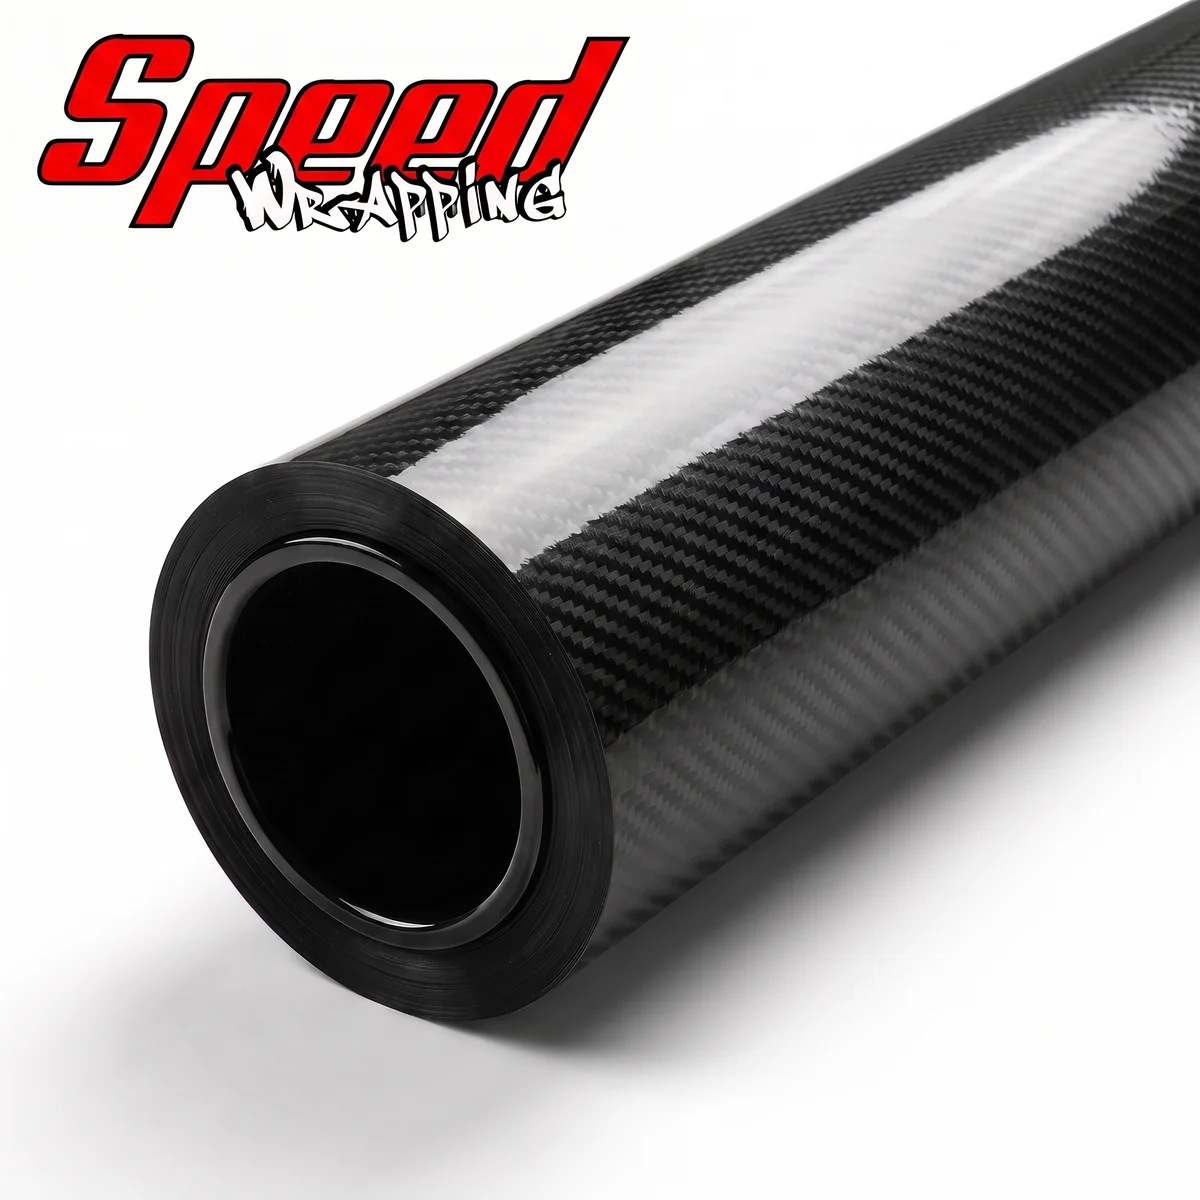
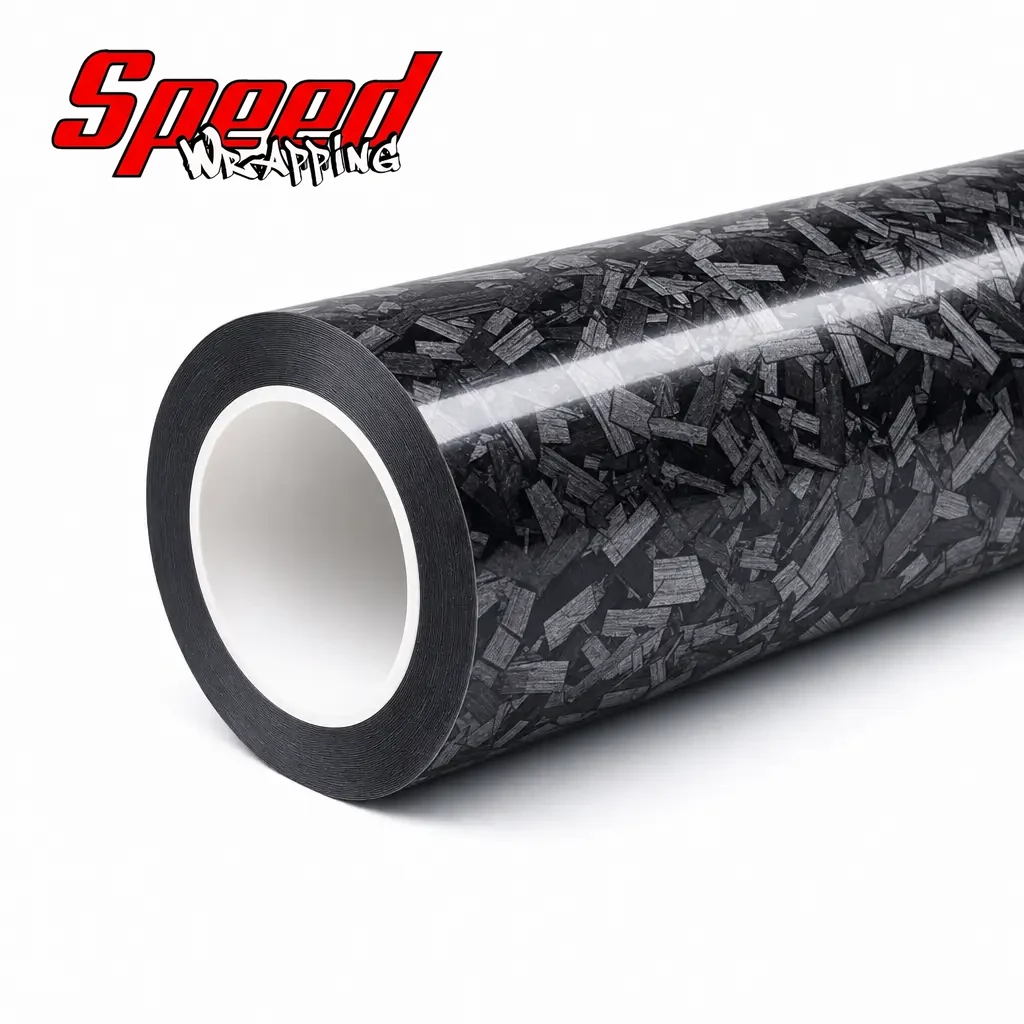
feat(egf-006): close de aplicacao parcial (capo, teto, retrovisor) + capa com padrao do cartao EGF 006 Gloss Forged Carbon Silver PET

diff --git a/docs/STATUS_CORES_SPEED.md b/docs/STATUS_CORES_SPEED.md
@@ -40,6 +40,10 @@ pasta · `✅ ` = fotos e capa 100% no site. Ex.: `✅ EDG-020 LIQUID METAL RUBY
 | EMG-022 | SATIN METALLIC GLOSSY PRUNUS SAKURA PINK PET | ✅ 30/09 | ✅ 01/10 — à mão: H 354–358, S 21–30, V 73–89 → swatch **`#EDB8BA`** (rosa-salmão pastel, H 357 · S 22 · V 93) | ✅ 01/10 — **B** aprovado (`63c3b945`) | ✅ 01/10 — aprovadas, sem correção (H 5–16 · S 20–25; capa H 357) | ✅ 01/10 — commit `e9ebbaf`, 5 mídias, conferido no ar; pasta ✅ |
 | EGF-010 | GLOSS FORGED CARBON GOLD PET | ✅ 30/09 | ✅ 01/10 — lascas âmbar-ouro H 30–36 (S 60–70) **`#B07A2A`**/`#8A5E1E` sobre base marrom-preta `#1A120A`; brilhante | ✅ 01/10 — **B** aprovado (`1e2d6395`) | ✅ 01/10 — aprovadas: closes (capô, retrovisor + teto, teto, macro) + capa com o padrão; sem correção | ✅ 01/10 — commit `56234fe`, 5 mídias, conferido no ar; pasta ✅ |
 | EGF-013 | MATTE FORGED CARBON PURPLE PET | ✅ 30/09 | ✅ 01/10 — lascas violeta H 266–284 (S ~48) **`#5A3A80`** sobre base `#161020`; **fosco** | ✅ 01/10 — **B** aprovado (`1084225e`) | ✅ 01/10 — aprovadas: closes foscos + capa fosca com o padrão; sem correção | ✅ 01/10 — commit `b006d98`, 5 mídias, conferido no ar; pasta ✅ |
+| EGF-006 | GLOSS FORGED CARBON SILVER PET | ✅ 30/09 | ✅ 01/10 — lascas prata-grafite sobre preto, brilhante; textura do cartão `f9657486` | ✅ 01/10 — **B** aprovado (`caa2f9ea`) | ⏳ 01/10 — prévia pronta: closes (capô, retrovisor + teto, teto, macro) + capa com o padrão; sem correção | — |
+| EGF-017 | SHADOW BLACK | ✅ 30/09 | ✅ 01/10 — camuflagem preta: manchas preto brilhante × cinza-chumbo acetinado; textura `d0cfb72b` | ✅ 01/10 — **B** aprovado (`5165d1d4`) | ⏳ 01/10 — prévia pronta: closes + macro brilho × acetinado + capa camuflada; sem correção | — |
+| EGF-018 | FORGED CARBON | ✅ 30/09 | ✅ 01/10 — estilhaços angulosos cinza/preto (não retangulares como os outros forjados), brilhante; textura `5980816d` | ✅ 01/10 — **B** aprovado (`3556e017`; eu tinha recomendado A) | ⏳ 01/10 — prévia pronta: closes + capa com os estilhaços; sem correção | — |
+| ESG-004 | SUPER GLOSS FERRARI RED PET | ✅ 01/10 | ✅ 01/10 — à mão: H 356–1 · S 84–97 · V ~88 → vermelho vivo levemente alaranjado **`#E31E14`** (cor no teto: sem correção) | ✅ 01/10 — **B** aprovado (`0e479703`) | ⏳ 01/10 — prévia pronta (H 359–5 · S 92–99; capa V 89); sem correção (cor no teto) | — |
 
 **Cadastradas no NZERP em 01/10** (eram as "fora do NZERP" com amostra no Drive): nome lido no rótulo do
 cartão; fiscal, custo, preço da Engenharia e medidas copiados do irmão de linha; criadas no Tiny pela
@@ -57,14 +61,16 @@ sync. Prontas para foto:
 | SPWEMG022 | EMG 022 SATIN METALLIC GLOSSY PRUNUS SAKURA PINK PET | SPWEMG017 | 437012495 |
 | SPWEMT024 | EMT 024 SATIN METALLIC MATT PEARL PINK | SPWEMT025 | 437012538 |
 
-**Nome divergente NZERP × Tiny (achado 01/10, não mexido):** SPWEGF006 é "GLOSS FORGED CARBON SILVER
-PET" no NZERP e "EGF 006 CARBON GLOSS 5D" no Tiny (a pasta do Drive segue o Tiny); SPWEGF007 é "MATTE
-FORGED CARBON SILVER PET" no NZERP e "EGF 007 FROSTED BLACK PET" no Tiny. Conferir pelo cartão físico
-antes de fotografar a EGF-006.
+**EGF-006 corrigida (01/10):** o cartão diz "EGF 06 GLOSS FORGED CARBON SILVER PET" — o NZERP já estava certo. Corrigido o Tiny (377719021: "EGF 006 CARBON GLOSS 5D" → nome do NZERP, PUT só com descrição; preço, NCM e categoria intactos), o nome no site (`produtos.nome`; slug `…-carbon-gloss-5d-…` mantido) e a pasta do Drive. **EGF-007** continua divergente (NZERP "MATTE FORGED CARBON SILVER PET" × Tiny "FROSTED BLACK PET"); sem amostra no Drive para conferir.
 
-## Amostra no Drive, ainda não iniciadas (01/10)
+## Amostra no Drive, ainda não iniciadas (01/10, tarde)
 
-EGF-006, EGF-017, EGF-018 (3 cores, todas de carbono; conferir `drive-cores.mjs status` para novas pastas com foto).
+Os funcionários subiram 43 cores novas (pastas marcadas 🟢 em 01/10). Todas existem no NZERP e no site, só com a capa antiga (1 mídia, nenhuma foto de carro):
+
+- **ESG (super gloss), 29:** ESG-001 a ESG-029.
+- **EMA (matt), 14:** EMA-003 a EMA-015 e EMA-017.
+- **Carbono, 3:** EGF-006, EGF-017, EGF-018.
+- ESG-041 ganhou 2 fotos de amostra (já publicada em set/2026; tom ainda a confirmar com o João).
 
 **Refotografar** (cartão deitado, na sombra, folha branca ao lado) — leitura instável por
 reflexo do céu/sol no cartão segurado na mão: EDG-018 sd(S) 29,5 · EDG-019 16,7 ·

diff --git a/docs/FOTOS_DE_COR_AUTOMOTIVA.md b/docs/FOTOS_DE_COR_AUTOMOTIVA.md
@@ -123,6 +123,10 @@ confiável:
 | EMG-022 Satin Metallic Glossy Prunus Sakura Pink | H354–358 · S 21–30 · V 73–89 (à mão) → swatch `#EDB8BA` | — | rosa-salmão pastel; cartão brilhante perolado |
 | EGF-010 Gloss Forged Carbon Gold | lascas H 30–36 (`#B07A2A`/`#8A5E1E`) sobre base `#1A120A` | — | padrão: referência é o recorte do cartão |
 | EGF-013 Matte Forged Carbon Purple | lascas H 266–284 (`#5A3A80`) sobre base `#161020`, fosco | — | padrão: referência é o recorte do cartão |
+| EGF-006 Gloss Forged Carbon Silver | lascas prata-grafite sobre preto | — | padrão: referência é o recorte do cartão; nome corrigido no Tiny/site (era "Carbon Gloss 5D") |
+| EGF-017 Shadow Black | camuflagem preto brilhante × cinza-grafite acetinado | — | não é forjado: o padrão aparece pela diferença de brilho |
+| EGF-018 Forged Carbon | estilhaços angulosos cinza/grafite sobre preto | — | forjado em estilhaços, não em retângulos |
+| ESG-004 Super Gloss Ferrari Red | H 356–1 · S 84–97 · V ~88 (à mão) → `#E31E14` | — | cor no teto: sem correção |
 | EDG-021 / EMT-025 (azuis, 30/09) | — | 41 / 26 | **não confiável**: reflexo do céu no cartão segurado na mão — refotografar deitado, na sombra |
 | **ESG-030 Gem Red** | H333 S68 V76 | **7,7** | **não confiável** |
 
@@ -567,6 +571,15 @@ multi-spoke"). O Chiron veio com friso C prata e roda clara; resolveu "C-shaped 
 wrapped in the same blue as the body: no polished aluminium, chrome or silver trim".
 Conferir roda e friso de cada foto contra o piloto antes da prévia.
 
+### Padrão que não é forjado: descrever o padrão do cartão, não "carbono" (EGF-017, 01/10)
+
+A EGF-017 Shadow Black está na linha de carbono, mas o desenho é uma **camuflagem tom sobre tom**
+(manchas de preto brilhante × cinza-grafite acetinado). O prompt descreve exatamente isso ("large,
+rounded, organic blotches; some deep glossy black, the others dark graphite-grey with a softer satin
+sheen") junto com o recorte do cartão; o macro mostra a borda entre uma mancha brilhante e uma
+acetinada, que é o que vende o produto. Regra: na linha EGF, olhar o cartão antes de escrever —
+forjado retangular, forjado em estilhaço (EGF-018) e camuflagem pedem descrições diferentes.
+
 ### Família de correção que cruza o vermelho pinta a lanterna (EMT-024, 01/10)
 
 A `malva` (300–5) cruza 0 grau. Num carro rosa, ela corrige o rosa **e** puxa a lanterna
@@ -732,6 +745,10 @@ marca d'água, sem adesivo de patrocínio.
 | EMG-022 Satin Metallic Glossy Prunus Sakura Pink | Maserati GranTurismo (rodas grafite usinadas) | orla do Lago di Como, balaustrada de pedra |
 | EGF-010 Gloss Forged Carbon Gold | Ferrari 296 GTB preta — só capô, teto e retrovisores, fotos de perto | estrada alpina (desfocada) |
 | EGF-013 Matte Forged Carbon Purple | Porsche 911 GT3 (992) branco — só capô, teto e retrovisores, fotos de perto | rua de cidade, concreto claro (desfocada) |
+| EGF-006 Gloss Forged Carbon Silver | Mercedes-AMG GT preto — closes de capô, teto e retrovisores | pátio de concreto claro (desfocado) |
+| EGF-017 Shadow Black | BMW M4 (G82) branco — closes | rua de cidade, concreto claro (desfocada) |
+| EGF-018 Forged Carbon | McLaren 720S laranja papaya — closes | paddock de autódromo (desfocado) |
+| ESG-004 Super Gloss Ferrari Red | Ferrari F8 Tributo (rodas pretas em Y, pinça vermelha) | estrada na praia de areia preta da Islândia, rochas de basalto |
 
 Quando o fabricante já escolheu um carro na brochure, é uma boa escolha — foi o
 caso do Golf na Capri Bronze e do M4 na Bavarian Blue. E quando a cor reproduz

diff --git a/docs/CAPAS_SPEED_WRAPPING.md b/docs/CAPAS_SPEED_WRAPPING.md
@@ -320,6 +320,10 @@ conferir sempre pelo arquivo no ar antes de mexer em qualquer coisa.
 | EMG-022 Satin Metallic Glossy Prunus Sakura Pink | `#EDB8BA` · H 357 · S 22 · V 93 | gloss pérola | ESG-034 + ESG-033 + "PEARL METALLIC, unlike image 2"; capa 1 (H 357 · S 17 · V 87); sem correção |
 | EGF-010 Gloss Forged Carbon Gold | padrão (lascas `#B07A2A` / base `#1A120A`) | gloss forjado | ESG-034 (geometria) + recorte do cartão (`7325eda7`); capa 2 (lascas mais densas); sem correção |
 | EGF-013 Matte Forged Carbon Purple | padrão fosco (lascas `#5A3A80` / base `#161020`) | **matte** forjado | ESG-034 (geometria, "do NOT copy its glossy surface") + recorte do cartão (`fed54336`) + "MATTE… no crisp specular band"; capa 2; sem correção |
+| EGF-006 Gloss Forged Carbon Silver | padrão (lascas prata sobre preto) | gloss forjado | ESG-034 (geometria) + recorte do cartão (`f9657486`); capa 2 (mais prata visível); sem correção |
+| EGF-017 Shadow Black | padrão (camuflagem brilho × acetinado) | gloss/satin | ESG-034 + recorte do cartão (`d0cfb72b`) + "soft white highlight that shines on the glossy blotches and stays muted on the satin ones"; capa 2 |
+| EGF-018 Forged Carbon | padrão (estilhaços cinza sobre preto) | gloss forjado | ESG-034 + recorte do cartão (`5980816d`); capa 2 (estilhaços mais nítidos) |
+| ESG-004 Super Gloss Ferrari Red | `#E31E14` · H 3 · S 91 · V 89 | super gloss sólido | ESG-034 + ESG-033 + "SOLID colour, exactly like image 2"; capa 2 (H 5 · S 92 · V 89); sem correção (cor no teto) |
 
 **A ESG-034 é a referência de geometria da linha** (job `a811cd95…`), e a
 **ESG-033 é a referência de acabamento** (job `d1170724…`). Passar as duas como
